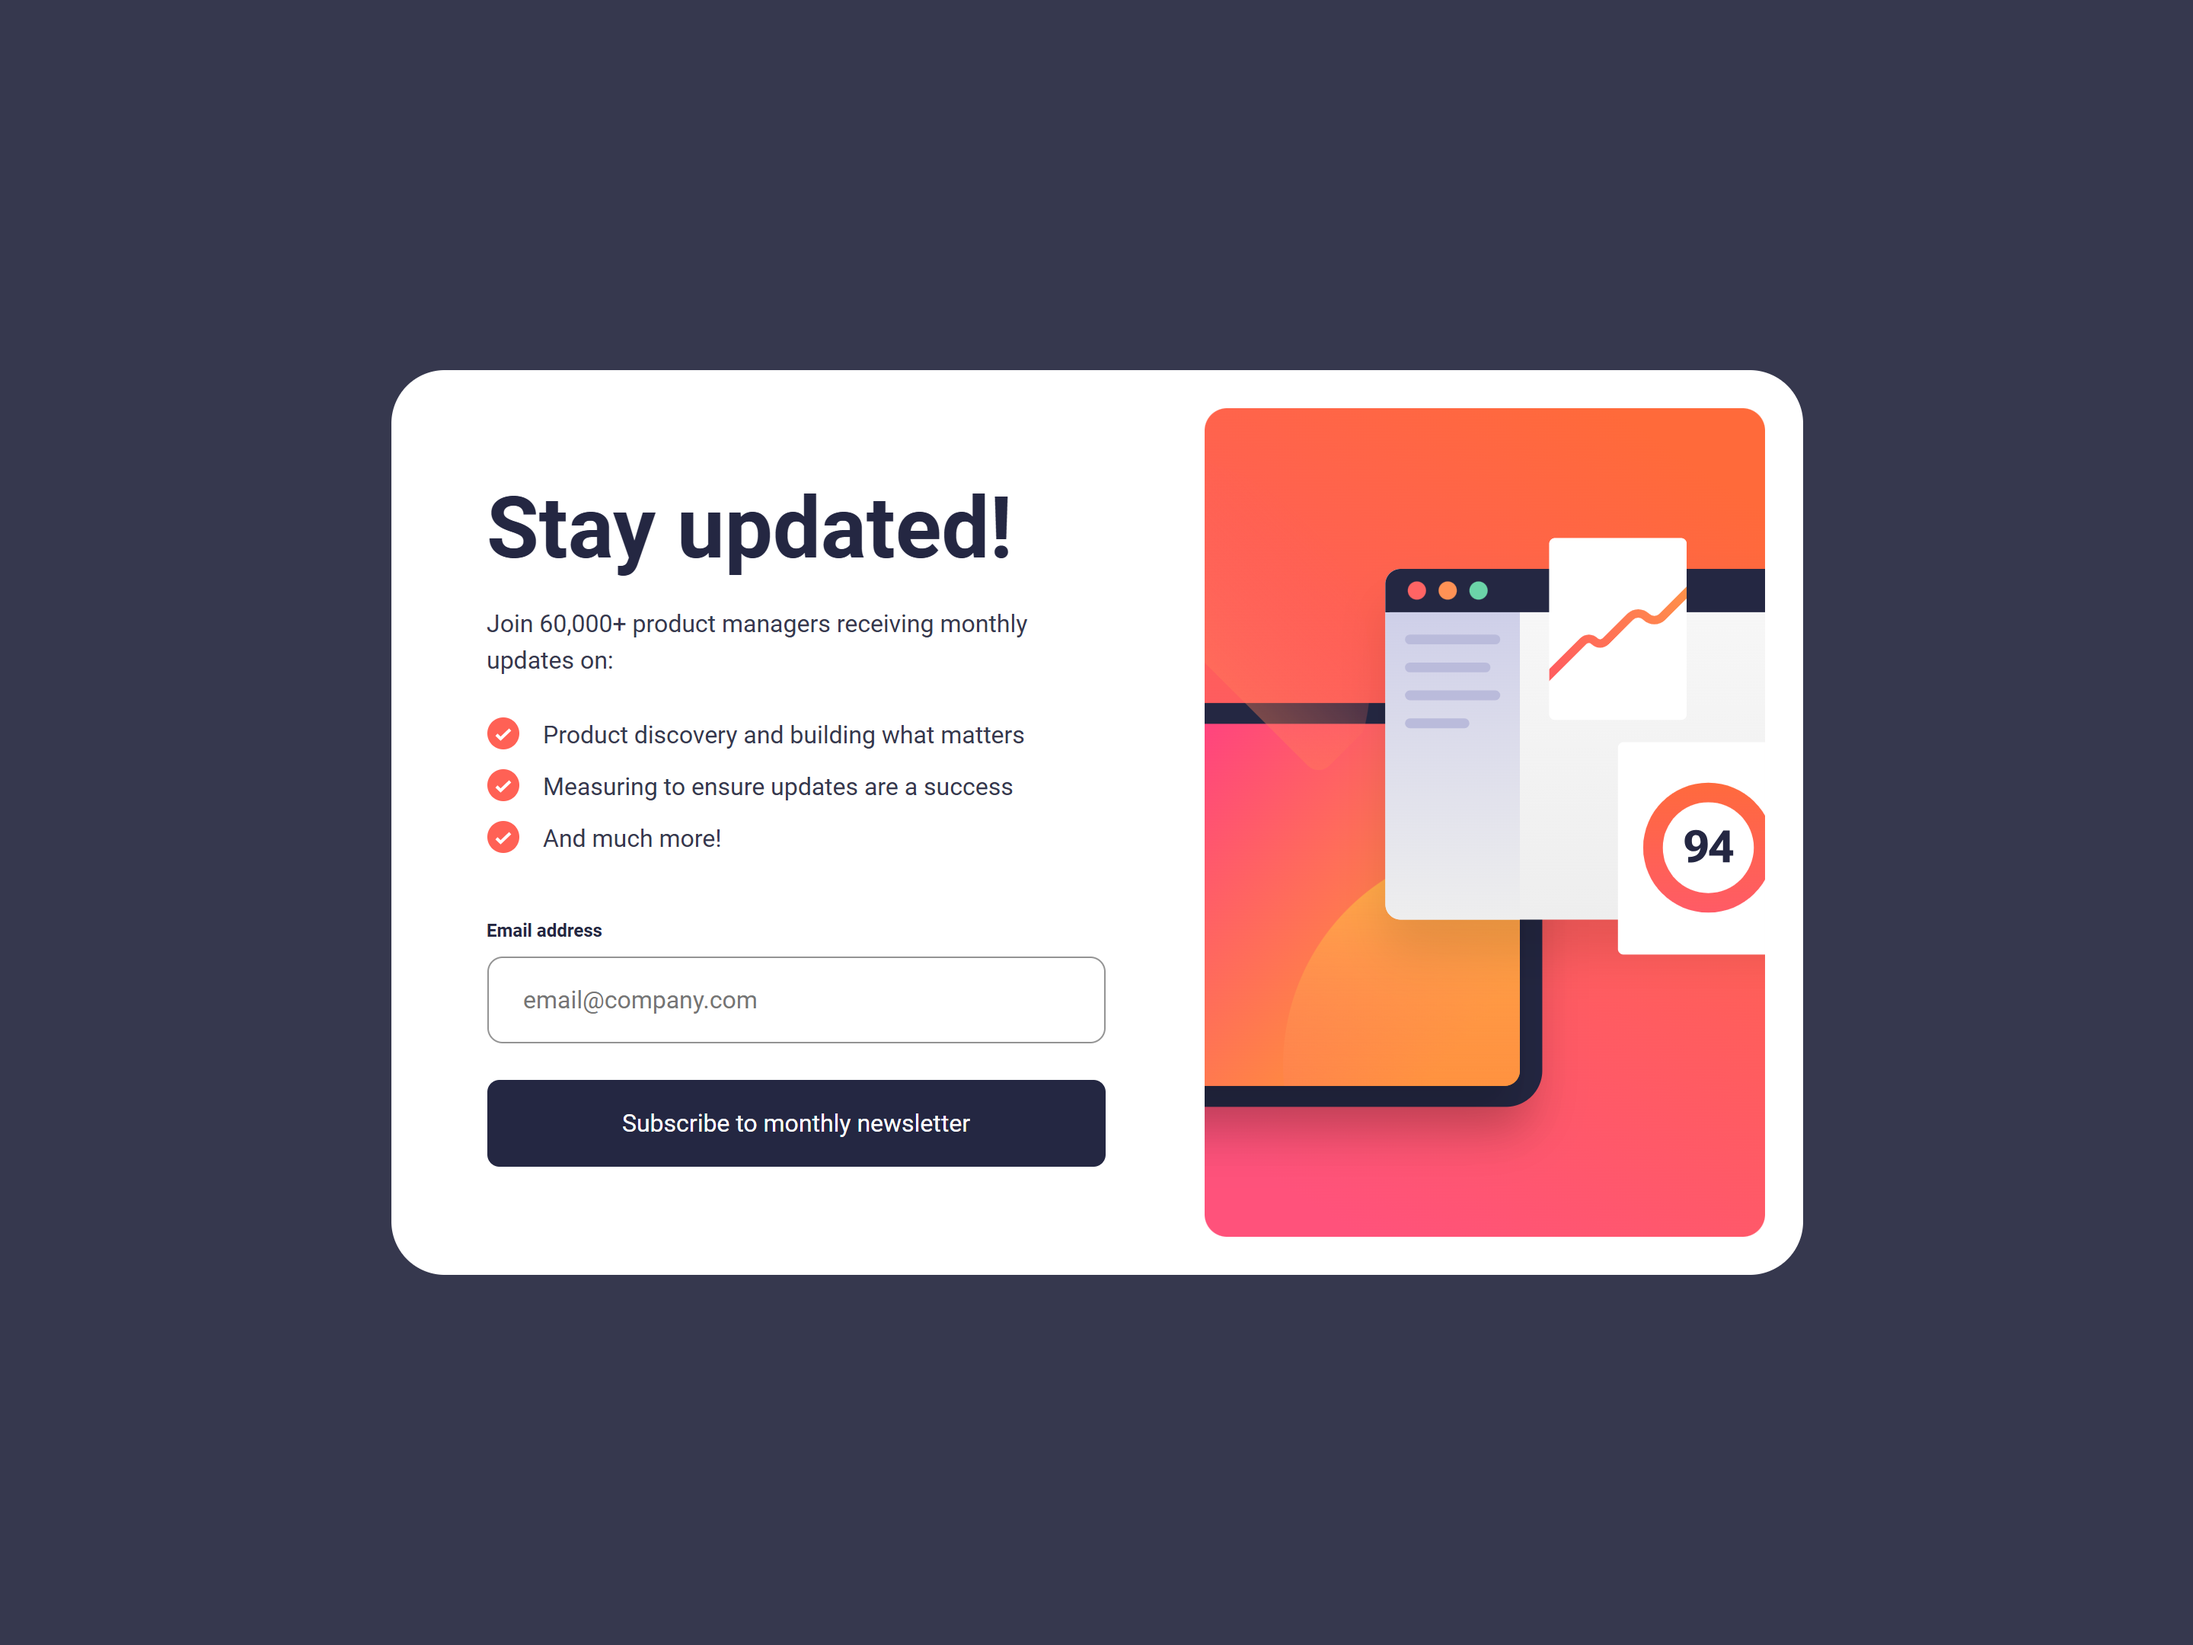
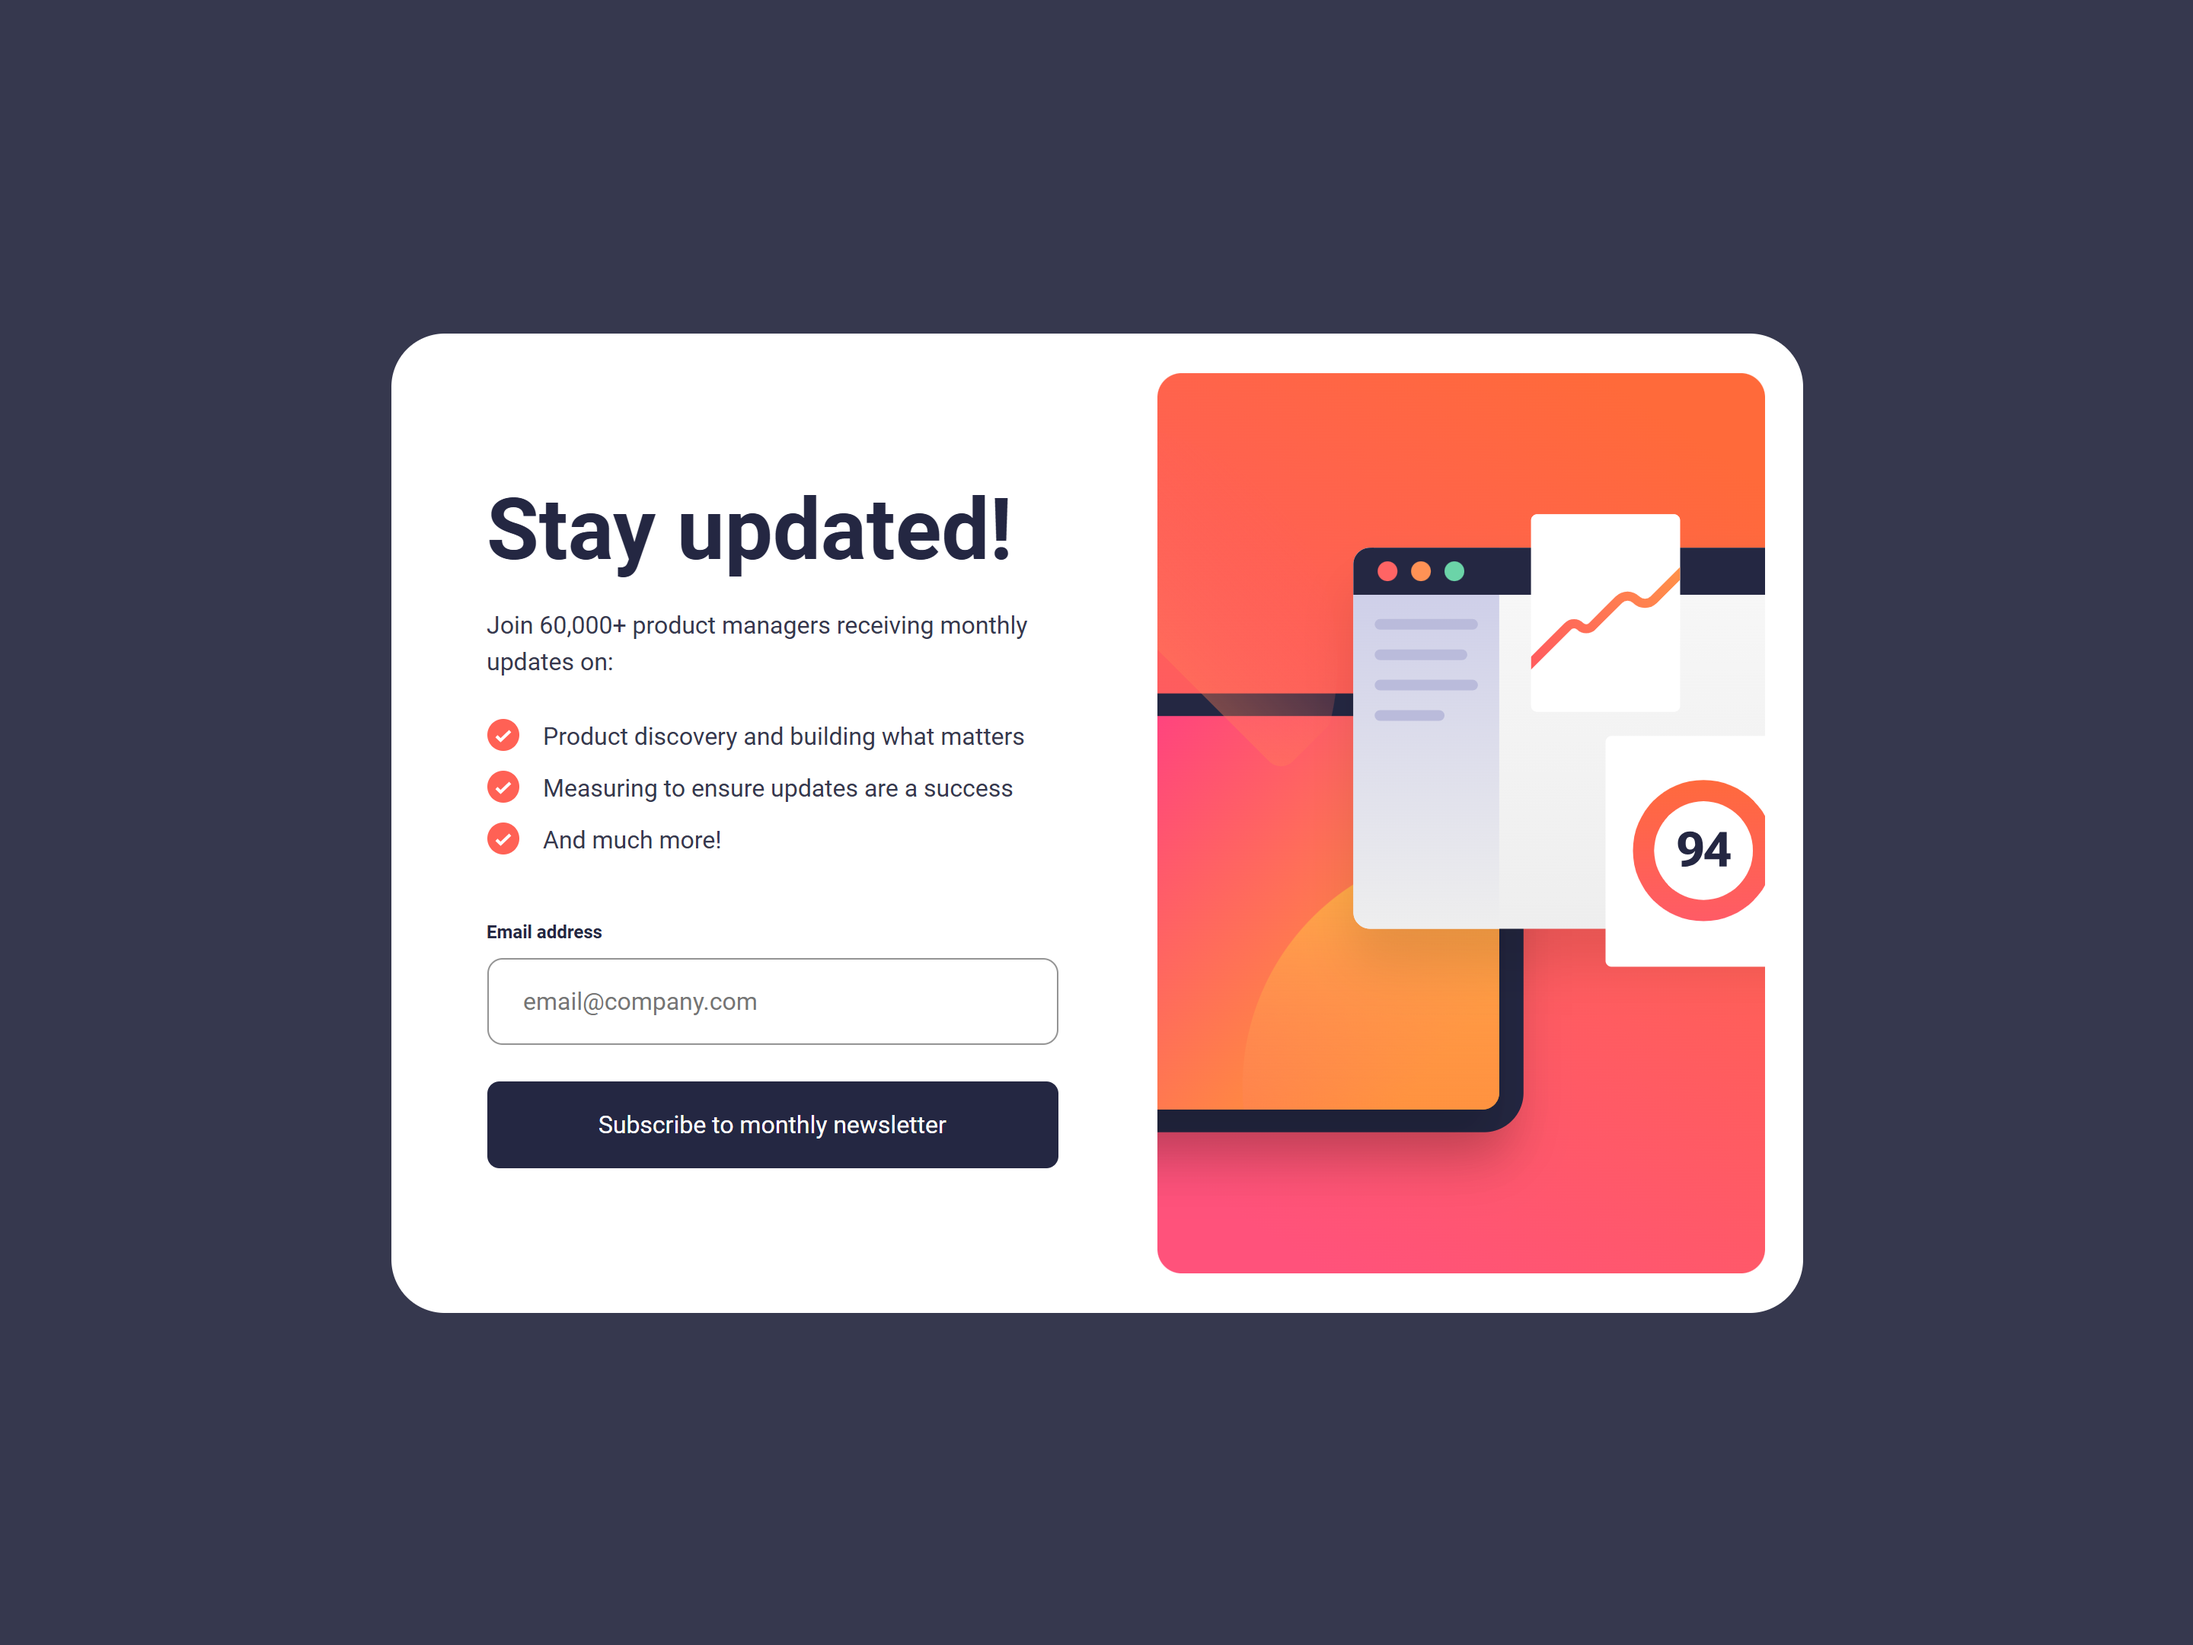
layout
fixed the img container width and the content padding block

diff --git a/css/files.css b/css/files.css
@@ -54,6 +54,7 @@ body {
 }
 .newsletter__img {
   display: block;
+  flex-basis: 29.375rem;
 }
 .newsletter__img img {
   display: block;
@@ -64,7 +65,7 @@ body {
   display: flex;
   flex-direction: column;
   justify-content: center;
-  padding-block: 2.4375rem;
+  padding-block: 4.375rem;
   padding-inline-start: clamp(1.5625rem, 1.2764rem + 1.2207vw, 2.375rem);
   padding-inline-end: clamp(1.5625rem, 0.6822rem + 3.7559vw, 4.0625rem);
 }

diff --git a/sass/components/_news-article.scss b/sass/components/_news-article.scss
@@ -20,6 +20,7 @@
 
   &__img {
     display: block;
+    flex-basis: rem(470);
     
     img {
       display: block;
@@ -30,7 +31,7 @@
 
   &__content {
     @include m.flex($dir:column,$content:center);
-    padding-block: rem(39);
+    padding-block: rem(70);
     padding-inline-start: clamp(1.5625rem, 1.2764rem + 1.2207vw, 2.375rem);
     padding-inline-end: clamp(1.5625rem, 0.6822rem + 3.7559vw, 4.0625rem);
   }

diff --git a/sass/files.scss b/sass/files.scss
@@ -2,4 +2,4 @@
 
 @use './base/general';
 
-@use './components/_news-article.scss';
+@use './components/news-article.scss';
